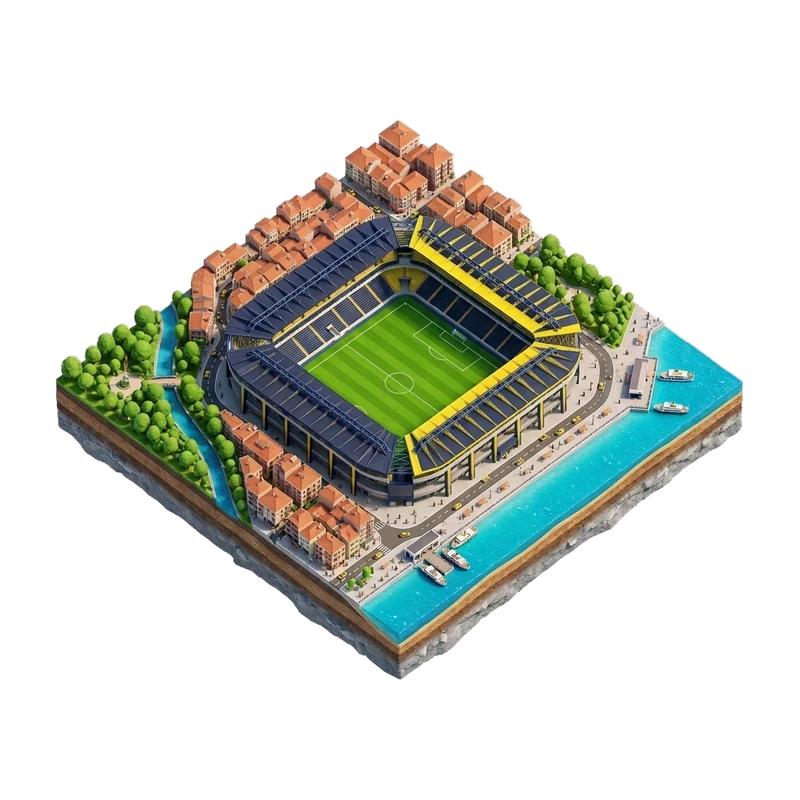
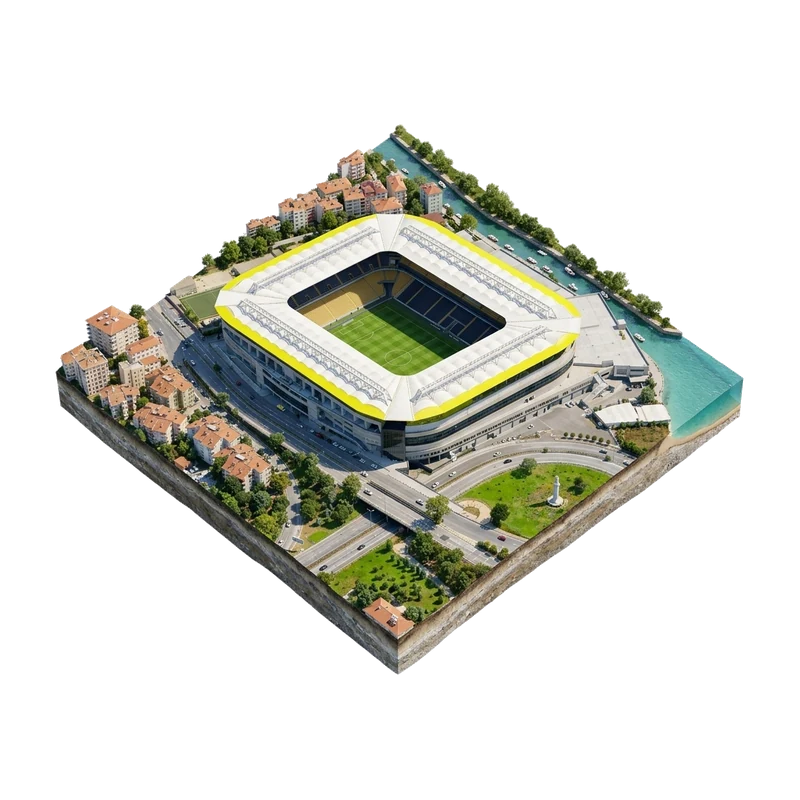
feat: update Kadikoy diorama to reference-matched Sukru Saracoglu Stadium

diff --git a/landmarks.js b/landmarks.js
@@ -187,7 +187,7 @@ const DISTRICT_LANDMARKS = {
 };
 
 const PREGENERATED_DIORAMAS = {
-  'İstanbul::Kadıköy': './dioramas/kadikoy.webp?v=1',
+  'İstanbul::Kadıköy': './dioramas/kadikoy.webp?v=2',
   'İzmir': './dioramas/izmir.webp?v=2',
   'İstanbul': './dioramas/istanbul.webp?v=2',
   'Niğde': './dioramas/nigde.webp?v=2'

diff --git a/static/landmarks.js b/static/landmarks.js
@@ -187,7 +187,7 @@ const DISTRICT_LANDMARKS = {
 };
 
 const PREGENERATED_DIORAMAS = {
-  'İstanbul::Kadıköy': './dioramas/kadikoy.webp?v=1',
+  'İstanbul::Kadıköy': './dioramas/kadikoy.webp?v=2',
   'İzmir': './dioramas/izmir.webp?v=2',
   'İstanbul': './dioramas/istanbul.webp?v=2',
   'Niğde': './dioramas/nigde.webp?v=2'

diff --git a/static/sw.js b/static/sw.js
@@ -1,4 +1,4 @@
-const CACHE_NAME = 'hava-durumu-v13';
+const CACHE_NAME = 'hava-durumu-v14';
 const SHELL_ASSETS = [
   './',
   './index.html',

diff --git a/sw.js b/sw.js
@@ -1,4 +1,4 @@
-const CACHE_NAME = 'hava-durumu-v13';
+const CACHE_NAME = 'hava-durumu-v14';
 const SHELL_ASSETS = [
   './',
   './index.html',
